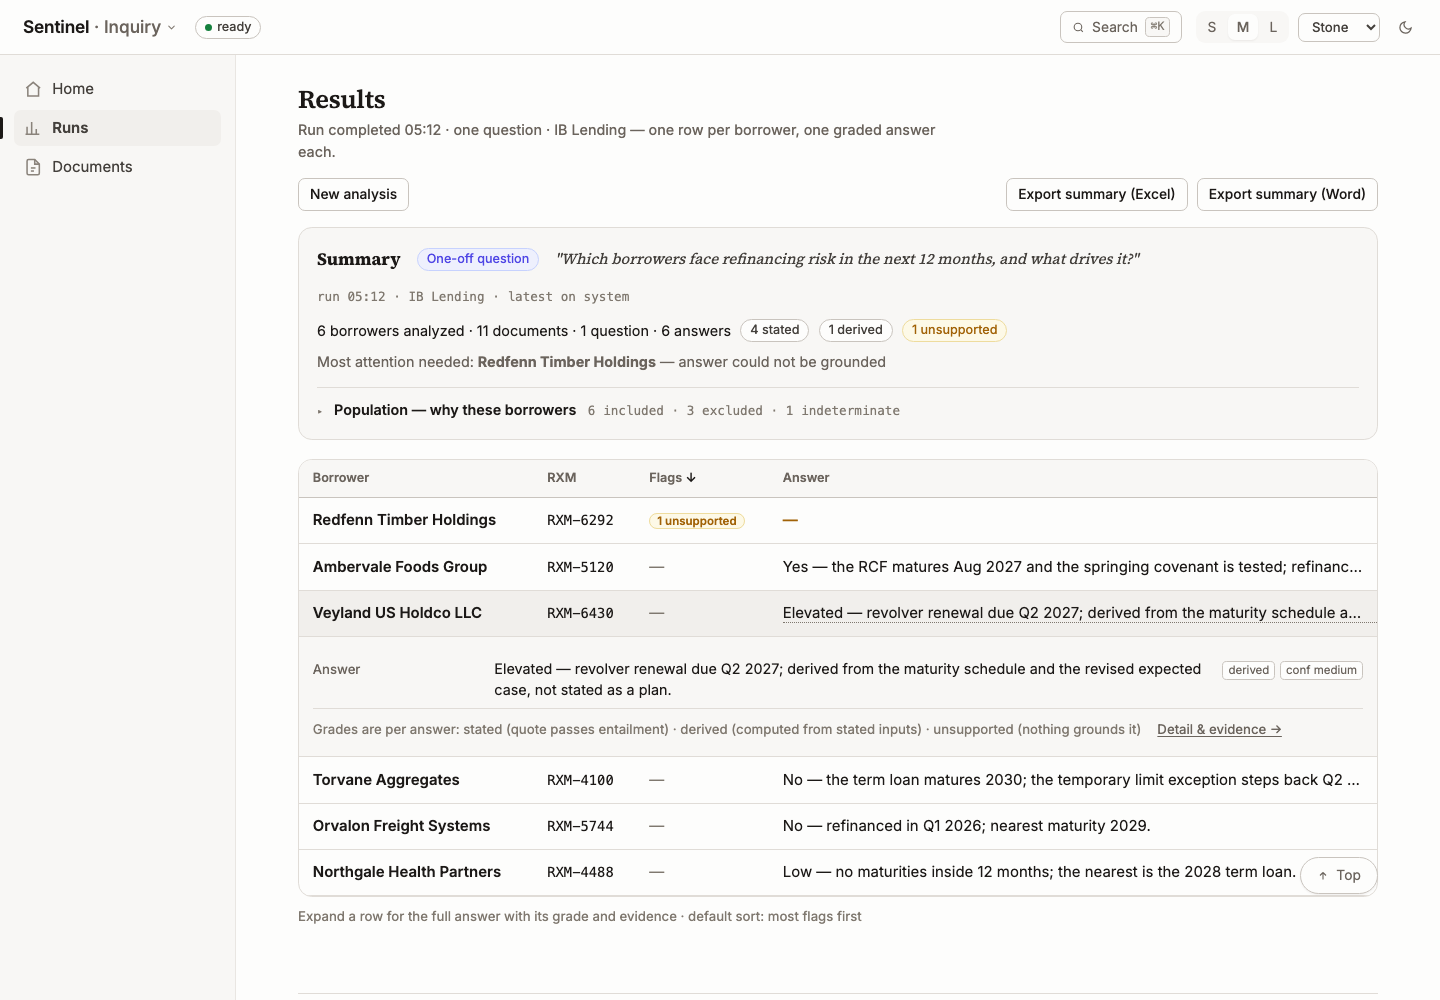
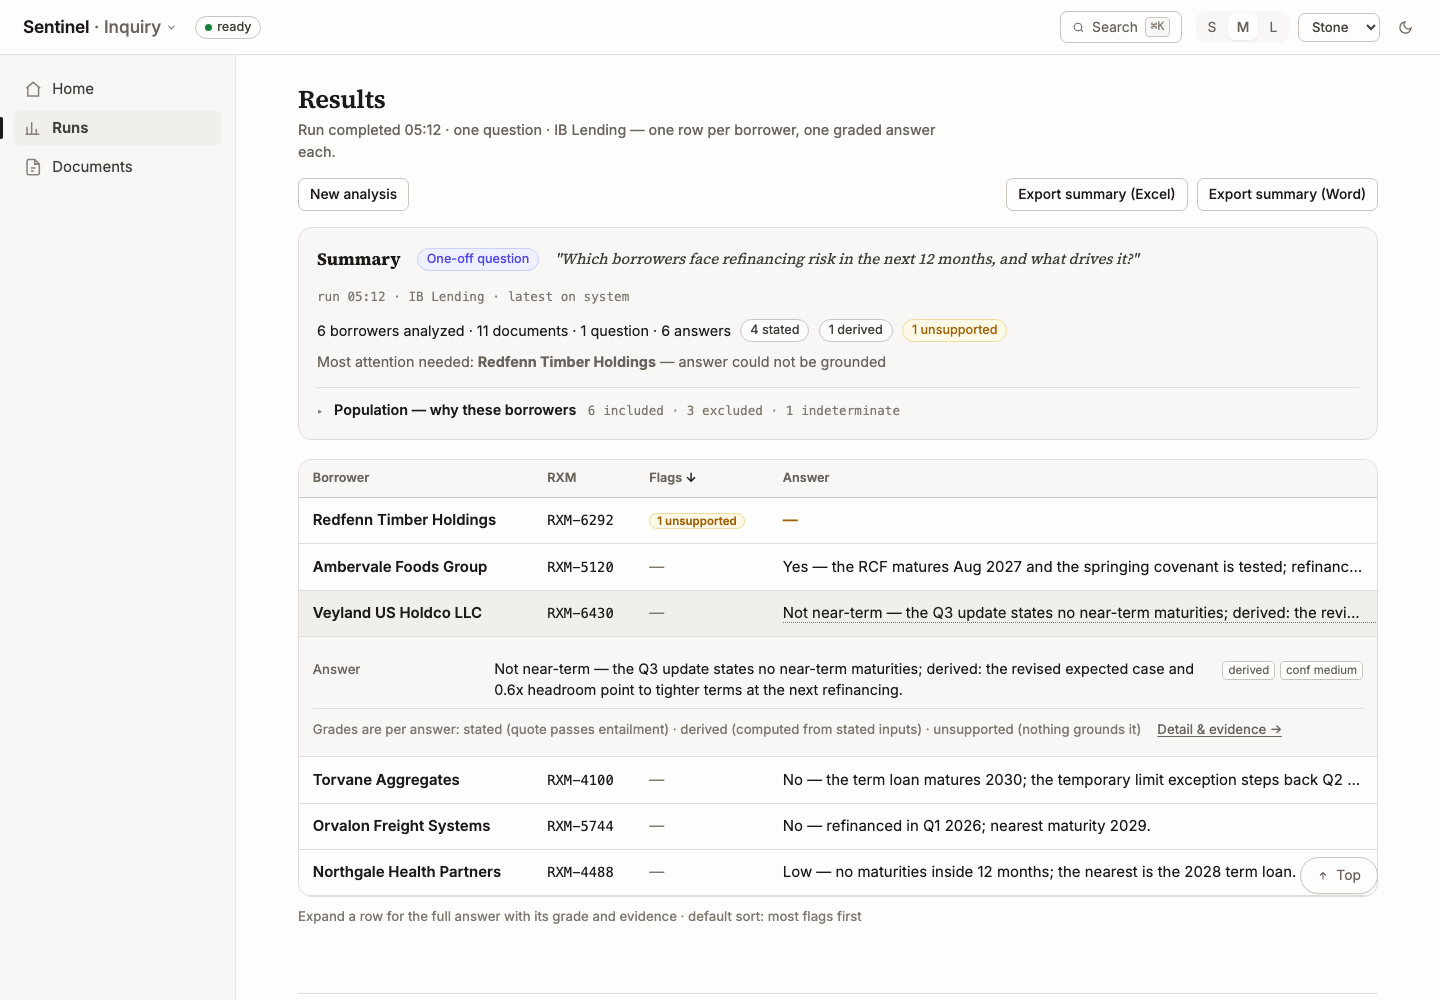
Hygiene sweep: demo answers re-grounded in the documents they cite
The Veyland Inquiry answer, as the dropped concept states it: "Not
near-term — the Q3 update states no near-term maturities; derived: the
revised expected case and 0.6x headroom point to tighter terms at the
next refinancing." The v1.8.0 evidence cited an annual-review quote
("…terminates on June 30, 2027") that appears in no document. That quote
is gone. All three refs now quote the Q3 update verbatim: Liquidity
Summary p.14, Highlights p.1 and Financial Update p.11. inferredFrom and
the modal's facts/basis follow the same grounding. The grade stays
derived and the run stays 4 stated · 1 derived · 1 unsupported. The CPEA
prompt-only run shares these answers.

Other Inquiry/CPEA contradictions, found by a three-lens audit with
adversarial verification. Every fix keeps grades and run counts:
canonical 87/7/8, August 91/7/4, sweep 19/1/0, Inquiry 4/1/1, 6/0/0 and
4/1/1.
- CPEA Veyland EV coverage 2.1x → 1.46x: the annual review states 1.46x,
  and CRR's 1.5x trigger case rests on it (8.6x ÷ 5.9x).
- Inquiry Veyland exposure: "down $35mm this year on the June prepayment"
  → "it has not grown this year". The cited annual review books that
  prepayment in FY25.
- CPEA Torvane summary: step-down "from Q4 2027" → "after Q4 2027". Per
  the cited agreement, 5.25x holds through Q4 2027.
- August run Redfenn summary says four unsupported answers, not today's
  eight.
- Generated CPEA refs stay inside the cited section's page range (they
[…]

Changed region(s): [[0.3438, 0.651, 0.8438, 0.713], [0.5312, 0.589, 0.9375, 0.62]]

diff --git a/src/api/mock/inquiryFixtures.ts b/src/api/mock/inquiryFixtures.ts
@@ -101,34 +101,44 @@ export const INQUIRY_DEMO_ANSWERS: ErmAnswer[] = [
       ),
     ],
   ),
+  // Re-grounded in the hygiene sweep (2026-09-24): the v1.8 answer claimed
+  // a Q2 2027 revolver renewal against the Q3 update's own "No near-term
+  // maturities". Every input below is quoted from the Q3 update's text.
   answer(
     'RXM-6430',
-    'Elevated — revolver renewal due Q2 2027; derived from the maturity schedule and the revised expected case, not stated as a plan.',
+    'Not near-term — the Q3 update states no near-term maturities; derived: the revised expected case and 0.6x headroom point to tighter terms at the next refinancing.',
     'medium',
     [
       ref(
-        'Veyland_Holdco_Annual_Review_FY25.pdf',
-        'doc-veyland-annual',
-        'Capitalization',
-        11,
-        'The $150mm revolving credit facility, as extended, terminates on June 30, 2027.',
+        'Veyland_Holdco_Q3_Update.pdf',
+        'doc-veyland-q3',
+        'Liquidity Summary',
+        14,
+        'The $150 million revolving credit facility remains undrawn, with $6.0 million utilized for standby letters of credit, leaving availability of approximately $144 million. No near-term maturities.',
       ),
       ref(
         'Veyland_Holdco_Q3_Update.pdf',
         'doc-veyland-q3',
-        'Renewal Pipeline',
-        8,
-        'Management expects the two slipped renewals to close in Q4 at flat-to-modestly-lower pricing.',
+        'Highlights',
+        1,
+        'Two enterprise renewals slipped from Q3 into Q4; management now guides to mid-single-digit revenue growth for FY26.',
         'page',
+      ),
+      ref(
+        'Veyland_Holdco_Q3_Update.pdf',
+        'doc-veyland-q3',
+        'Financial Update',
+        11,
+        'Covenant headroom narrows to 0.6x at the revised EBITDA.',
       ),
     ],
     {
-      inferredFrom: ['revolver maturity (annual review)', 'revised expected case (Q3 update)'],
+      inferredFrom: ['revised expected case (Q3 update)', 'covenant headroom 0.6x (Q3 update)'],
       rationale: {
         memoFacts:
-          'The annual review puts the revolver’s termination date at June 30, 2027 — inside the 12-month window. The Q3 update revises the expected case downward on two slipped enterprise renewals.',
+          'The Q3 update states no near-term maturities — the $150mm revolver is undrawn with ~$144mm available. The same update revises the expected case downward on two slipped enterprise renewals, and covenant headroom narrows to 0.6x at the revised EBITDA.',
         basis:
-          'The refinancing risk is inferred, not quoted: both inputs are stated, but no document states a renewal plan. Medium confidence until the lenders’ renewal terms are on system.',
+          'The timing is stated: the Q3 update reports no near-term maturities (read here as none inside the 12-month window). The pressure on terms is inferred, not quoted — both inputs are stated, but no document states refinancing terms. Medium confidence until the lenders’ terms are on system.',
       },
     },
   ),
@@ -190,7 +200,9 @@ const EXPOSURE_QUESTION = 'Where is our largest single-name exposure, and has it
 const EXPOSURE_ANSWERS: ErmAnswer[] = [
   answer(
     'RXM-6430',
-    '$1,390mm committed ($1,240mm TLB + $150mm RCF) — the largest in the population; down $35mm this year on the June prepayment.',
+    // Hygiene sweep: was "down $35mm this year on the June prepayment" — the
+    // cited annual review books that prepayment in FY25, not this year.
+    '$1,390mm committed ($1,240mm TLB + $150mm RCF) — the largest in the population; it has not grown this year.',
     'high',
     [
       ref(
@@ -269,7 +281,7 @@ const HEADROOM_ANSWERS: ErmAnswer[] = [
       ref(
         'Ambervale_Foods_Q2_Performance_Update.pdf',
         'doc-ambervale-q2u',
-        'Financial Performance',
+        'Covenant Compliance',
         9,
         'LTM EBITDA revised to $412mm following the Q2 restatement of the co-manufacturing segment.',
         'page',

diff --git a/src/api/mock/ermFixtures.ts b/src/api/mock/ermFixtures.ts
@@ -18,6 +18,7 @@ import type {
   QuestionSet,
 } from '../types'
 import { expectedGrade } from '@/lib/ermModel'
+import { DOCUMENTS } from './fixtures'
 
 // ---------------------------------------------------------------------------
 // Question sets
@@ -711,7 +712,9 @@ const ROWS: RowSpec[] = [
       pd: ['B1', 'h'],
       reg: ['Pass', 'h'],
       dscr: ['DSCR 1.6x LTM', 'm'],
-      ev: ['2.1x', 'm', 'inf'],
+      // 8.6x EV/EBITDA ÷ 5.9x leverage — the annual review's own 1.46x (hygiene
+      // sweep: the concept's 2.1x contradicted it and CRR's 1.5x trigger case)
+      ev: ['1.46x', 'm', 'inf'],
       fccr: ['1.8x', 'h'],
       lev: ['5.9x', 'h'],
       hd: ['0.6x', 'h'],
@@ -782,7 +785,7 @@ const ROWS: RowSpec[] = [
       cwl: ['No', 'h'],
       exp: ['$460mm CMT', 'h'],
       risk: ['Low', 'h'],
-      summary: ['Headroom 1.1x and stable; step-down to 4.75x from Q4 2027.', 'h'],
+      summary: ['Headroom 1.1x and stable; step-down to 4.75x after Q4 2027.', 'h'],
     },
   },
   {
@@ -815,6 +818,20 @@ const ROWS: RowSpec[] = [
   },
 ]
 
+/**
+ * A generated ref's page: 2 + the field's index, held inside the cited
+ * section's page range on the document record (hygiene sweep — generated
+ * pages had run past the section, and past the end of short documents).
+ */
+function refPage(r: RowSpec, i: number): number {
+  const sec = DOCUMENTS.find((d) => d.docId === r.doc.docId)?.sections?.find(
+    (x) => x.title === r.doc.section,
+  )
+  const p = 2 + i
+  if (!sec || (p >= sec.pageStart && p <= sec.pageEnd)) return p
+  return sec.pageStart + (i % (sec.pageEnd - sec.pageStart + 1))
+}
+
 function buildAnswers(rows: RowSpec[], set: QuestionSet): ErmAnswer[] {
   const out: ErmAnswer[] = []
   for (const r of rows) {
@@ -831,7 +848,7 @@ function buildAnswers(rows: RowSpec[], set: QuestionSet): ErmAnswer[] {
                 fileName: r.doc.fileName,
                 docId: r.doc.docId,
                 sectionName: r.doc.section,
-                page: 2 + set.fields.indexOf(fd),
+                page: refPage(r, set.fields.indexOf(fd)),
                 quote:
                   mark === 'inf'
                     ? `Stated inputs for ${fd.label.toLowerCase()} as reported for ${r.name}.`
@@ -889,7 +906,7 @@ export const ERM_ANSWERS: ErmAnswer[] = buildAnswers(ROWS, QUARTERLY_PULSE)
     {
       fileName: 'Ambervale_Foods_Q2_Performance_Update.pdf',
       docId: 'doc-ambervale-q2u',
-      sectionName: 'Financial Performance',
+      sectionName: 'Covenant Compliance',
       page: 9,
       quote:
         'LTM EBITDA revised to $412mm following the Q2 restatement of the co-manufacturing segment.',
@@ -912,7 +929,10 @@ function augustAnswers(): ErmAnswer[] {
   const out = buildAnswers(ROWS, QUARTERLY_PULSE).map((a) => ({ ...a }))
   for (const a of out) {
     if (a.rxm !== 'RXM-6292') continue
-    // In August only four Redfenn answers were ungrounded.
+    // In August only four Redfenn answers were ungrounded — and its derived
+    // summary says so (today's run says eight).
+    if (a.questionId === 'summary')
+      a.value = 'Stale document set: four answers unsupported pending the amended agreement.'
     if (['reg', 'dscr', 'ev', 'fccr'].includes(a.questionId)) continue
     if (a.grade === 'unsupported') {
       a.evidenceRefs = [

diff --git a/src/api/mock/fixtures.ts b/src/api/mock/fixtures.ts
@@ -1120,13 +1120,13 @@ export const DOCUMENTS: DocumentRecord[] = [
         title: 'Financial Summary',
         pageStart: 5,
         pageEnd: 8,
-        text: 'Gross leverage of 3.1x remains comfortably inside the 4.5x maintenance covenant; the revolver was undrawn throughout the year. Margins recovered as input costs normalized.',
+        text: 'Gross leverage sat inside the 6.5x springing covenant at FY25 close; the covenant was not tested, as the revolver was undrawn throughout the year. Margins recovered as input costs normalized.',
       },
       {
         title: 'Outlook',
         pageStart: 9,
         pageEnd: 18,
-        text: 'Management guides to low-single-digit growth with continued deleveraging from free cash flow.',
+        text: 'Management guides to low-single-digit growth with a return to deleveraging from free cash flow.',
       },
     ],
   },
@@ -1251,14 +1251,14 @@ export const DOCUMENTS: DocumentRecord[] = [
     docType: 'compliance certificate',
     date: '2026-06-30',
     pages: 4,
-    parsedAt: '2026-06-30T12:00:00Z',
+    parsedAt: '2026-09-02T12:00:00Z',
     extracted: true,
     sections: [
       {
         title: 'Covenant Compliance Certificate',
         pageStart: 1,
         pageEnd: 4,
-        text: 'For the fiscal quarter ended 2026-06-30 the borrower certifies compliance with each covenant under the credit agreement, at the figures then reported.',
+        text: 'Draft certificate for the fiscal quarter ended 2026-06-30 — unsigned, and prepared at the figures reported before the Q2 restatement. The executed certificate has not been provided.',
       },
     ],
   },
@@ -1298,7 +1298,7 @@ export const DOCUMENTS: DocumentRecord[] = [
         title: 'Financial Performance',
         pageStart: 1,
         pageEnd: 16,
-        text: 'Gross leverage of 5.7x at Q1 close against the 6.5x covenant; headroom of 0.9x at the then-current EBITDA.',
+        text: 'Gross leverage of 5.6x at Q1 close against the 6.5x covenant; headroom of 0.9x at the then-current EBITDA.',
       },
     ],
   },
@@ -1338,7 +1338,7 @@ export const DOCUMENTS: DocumentRecord[] = [
         title: 'Refinancing Structure',
         pageStart: 1,
         pageEnd: 22,
-        text: 'The refinancing extends maturities to 2031 and reduces gross leverage to 3.1x at close; fixed-charge coverage of 2.4x at the pro-forma run rate. Renewal concentration in two customer contracts is the residual risk.',
+        text: 'The refinancing closed in Q1 2026: the new revolving facility matures in 2029 and the term loan in 2031. Gross leverage falls to 3.1x at close; fixed-charge coverage of 2.4x at the pro-forma run rate. Renewal concentration in two customer contracts is the residual risk.',
       },
     ],
   },
@@ -1539,7 +1539,7 @@ export const PASSAGES: DocumentPassage[] = [
     date: '2026-08-20',
     extracted: true,
     snippet:
-      'Gross leverage of 3.1x remains comfortably inside the 4.5x maintenance covenant; the revolver was undrawn throughout the year.',
+      'Gross leverage sat inside the 6.5x springing covenant at FY25 close; the covenant was not tested, as the revolver was undrawn throughout the year.',
     sectionName: 'Financial Summary',
     page: 6,
     usedInReviewId: 'rev-ambervale-2026-08',

diff --git a/src/api/mock/mockApi.test.ts b/src/api/mock/mockApi.test.ts
@@ -10,7 +10,7 @@ import {
   VEYLAND_ID,
   PROCESSING,
 } from './mockApi'
-import { LEADERSHIP_USER } from './fixtures'
+import { DOCUMENTS, LEADERSHIP_USER } from './fixtures'
 import { INQUIRY_DEMO_QUESTION } from './inquiryFixtures'
 import { VANTAGE_DEMO_BLOCKS, VANTAGE_DEMO_DOCS, WATCHLIST_QS } from './vantageFixtures'
 import { expectedGrade, gradeCounts } from '@/lib/ermModel'
@@ -900,6 +900,27 @@ describe('fixture integrity: evidence comes from the run’s own documents', () 
           .flatMap((a) => a.evidenceRefs.map((r) => `${a.rxm} → ${r.fileName}`))
           .filter((s) => !scope.has(s.split(' → ')[1]))
         expect({ run: run.runId, outside }).toEqual({ run: run.runId, outside: [] })
+      }
+  })
+
+  it('every cited section exists on its document, and every cited page sits inside it', async () => {
+    // hygiene sweep: generated refs had cited pages past a section's end (and
+    // past the end of short documents), and one showcase ref named a section
+    // its document does not have
+    const api = make()
+    for (const app of ['erm', 'inquiry'] as const)
+      for (const run of await api.listRuns(app)) {
+        const bad = run.answers.flatMap((a) =>
+          a.evidenceRefs.flatMap((r) => {
+            const doc = DOCUMENTS.find((d) => d.docId === r.docId)
+            const sec = doc?.sections?.find((x) => x.title === r.sectionName)
+            const ok = sec && r.page >= sec.pageStart && r.page <= sec.pageEnd
+            return ok
+              ? []
+              : [`${a.rxm} ${a.questionId} → ${r.docId} · ${r.sectionName} p.${r.page}`]
+          }),
+        )
+        expect({ run: run.runId, bad }).toEqual({ run: run.runId, bad: [] })
       }
   })
 })

diff --git a/e2e/cpea-borrower.spec.ts b/e2e/cpea-borrower.spec.ts
@@ -170,13 +170,14 @@ test('Prompt only asks ONE question: the single-question shape, no group-by togg
   // expansion: the full answer with grade + confidence, then Detail & evidence
   await page.locator('tr[data-rxm="RXM-6430"]').click()
   const x = page.locator('tr[data-expansion="RXM-6430"]')
-  await expect(x).toContainText('revolver renewal due Q2 2027')
+  await expect(x).toContainText('the Q3 update states no near-term maturities')
   await expect(x.getByText('derived', { exact: true })).toBeVisible()
   await expect(x.getByText('conf medium')).toBeVisible()
   await x.getByRole('button', { name: 'Detail & evidence →' }).click()
   const modal = page.getByRole('dialog', { name: 'Veyland US Holdco LLC — answer' })
   await expect(modal).toBeVisible()
-  await expect(modal.getByText('Evidence (2)')).toBeVisible()
+  // every input quoted from the Q3 update: maturities, expected case, headroom
+  await expect(modal.getByText('Evidence (3)')).toBeVisible()
   await page.keyboard.press('Escape')
   await expect(modal).toHaveCount(0)
 })

diff --git a/e2e/inquiry.spec.ts b/e2e/inquiry.spec.ts
@@ -115,7 +115,7 @@ test('deep entry: the demo run renders its frozen single-question results', asyn
     page.locator(
       'tr[data-rxm="RXM-6430"] [title="Derived from stated inputs — expand for the derivation"]',
     ),
-  ).toContainText('Elevated — revolver renewal due Q2 2027')
+  ).toContainText('Not near-term — the Q3 update states no near-term maturities')
   await expectNoQuestionSetUi(page)
 })
 

diff --git a/docs/runbook.md b/docs/runbook.md
@@ -110,7 +110,7 @@ The data is fictional. Every action below persists in your browser (survives ref
 **The other applications** (open them from the switcher, "Sentinel · CRR ▾")
 
 30. **CPEA → Start** — under *The population*, type `amber` in **Borrower — optional**, pick *Ambervale Foods Group*: a chip (name + `RXM-5120` + ✕) replaces the field, the four dropdowns grey out, and the line reads "Will run against: Ambervale Foods Group (RXM-5120) — resolves to 1 borrower · 5 documents". Typing `6430` finds Veyland by RXM; arrow keys and Enter work too. Click ✕ to go back to the whole portfolio.
-31. Still on CPEA Start, with **Prompt only** selected, type `Which borrowers face refinancing risk in the next 12 months?` and click **Run analysis**. Processing says "One-off question"; the results are one row per borrower — Borrower · RXM · Flags · Answer, no By borrower / By question toggle. Click the Veyland row: the full answer, `derived` + `conf medium`, and **Detail & evidence →** with both quotes. (Choose **Question set** instead and you get the 17-column monitor, as before.)
+31. Still on CPEA Start, with **Prompt only** selected, type `Which borrowers face refinancing risk in the next 12 months?` and click **Run analysis**. Processing says "One-off question"; the results are one row per borrower — Borrower · RXM · Flags · Answer, no By borrower / By question toggle. Click the Veyland row: the full answer, `derived` + `conf medium`, and **Detail & evidence →** with its three quotes, all from the Q3 update (Evidence (3)). (Choose **Question set** instead and you get the 17-column monitor, as before.)
 32. **CPEA → Documents** — every borrower group ends with **Ask about this borrower →**. Click Torvane's: you land on Start with Torvane already chosen ("resolves to 1 borrower · 1 document").
 33. **Vantage → Ask** — *What to ask* now has two modes. In **One-off questions**, drop `docs/demo-files/Watchlist_Qs.xlsx` (in this repository) on the slim row under the question box: it uploads, then a review card lists the file's questions — "14 questions read", three shown, **+ 11 more — review all before running**. Remove one with its ✕; type a question of your own too — the line beside **Ask** counts both ("14 questions · …"). Attach a document and **Ask**: the answer has one heading per question ("Q1 of 14" …), each with its own blocks. (The demo reads any file named `Watchlist_Qs.xlsx`; other .xlsx files get a labeled placeholder list — real parsing is backend work.)
 34. Back on Ask, drop the file again and click **Save as a question set**: the modal opens with the file and the title "Watchlist Qs" filled in; **Save**. Switch to **Question set** — it sits beside Vantage's own two sets (Exposure limits sweep, Key-customer scan). CPEA's shelf does not show it: every application keeps its own sets.
